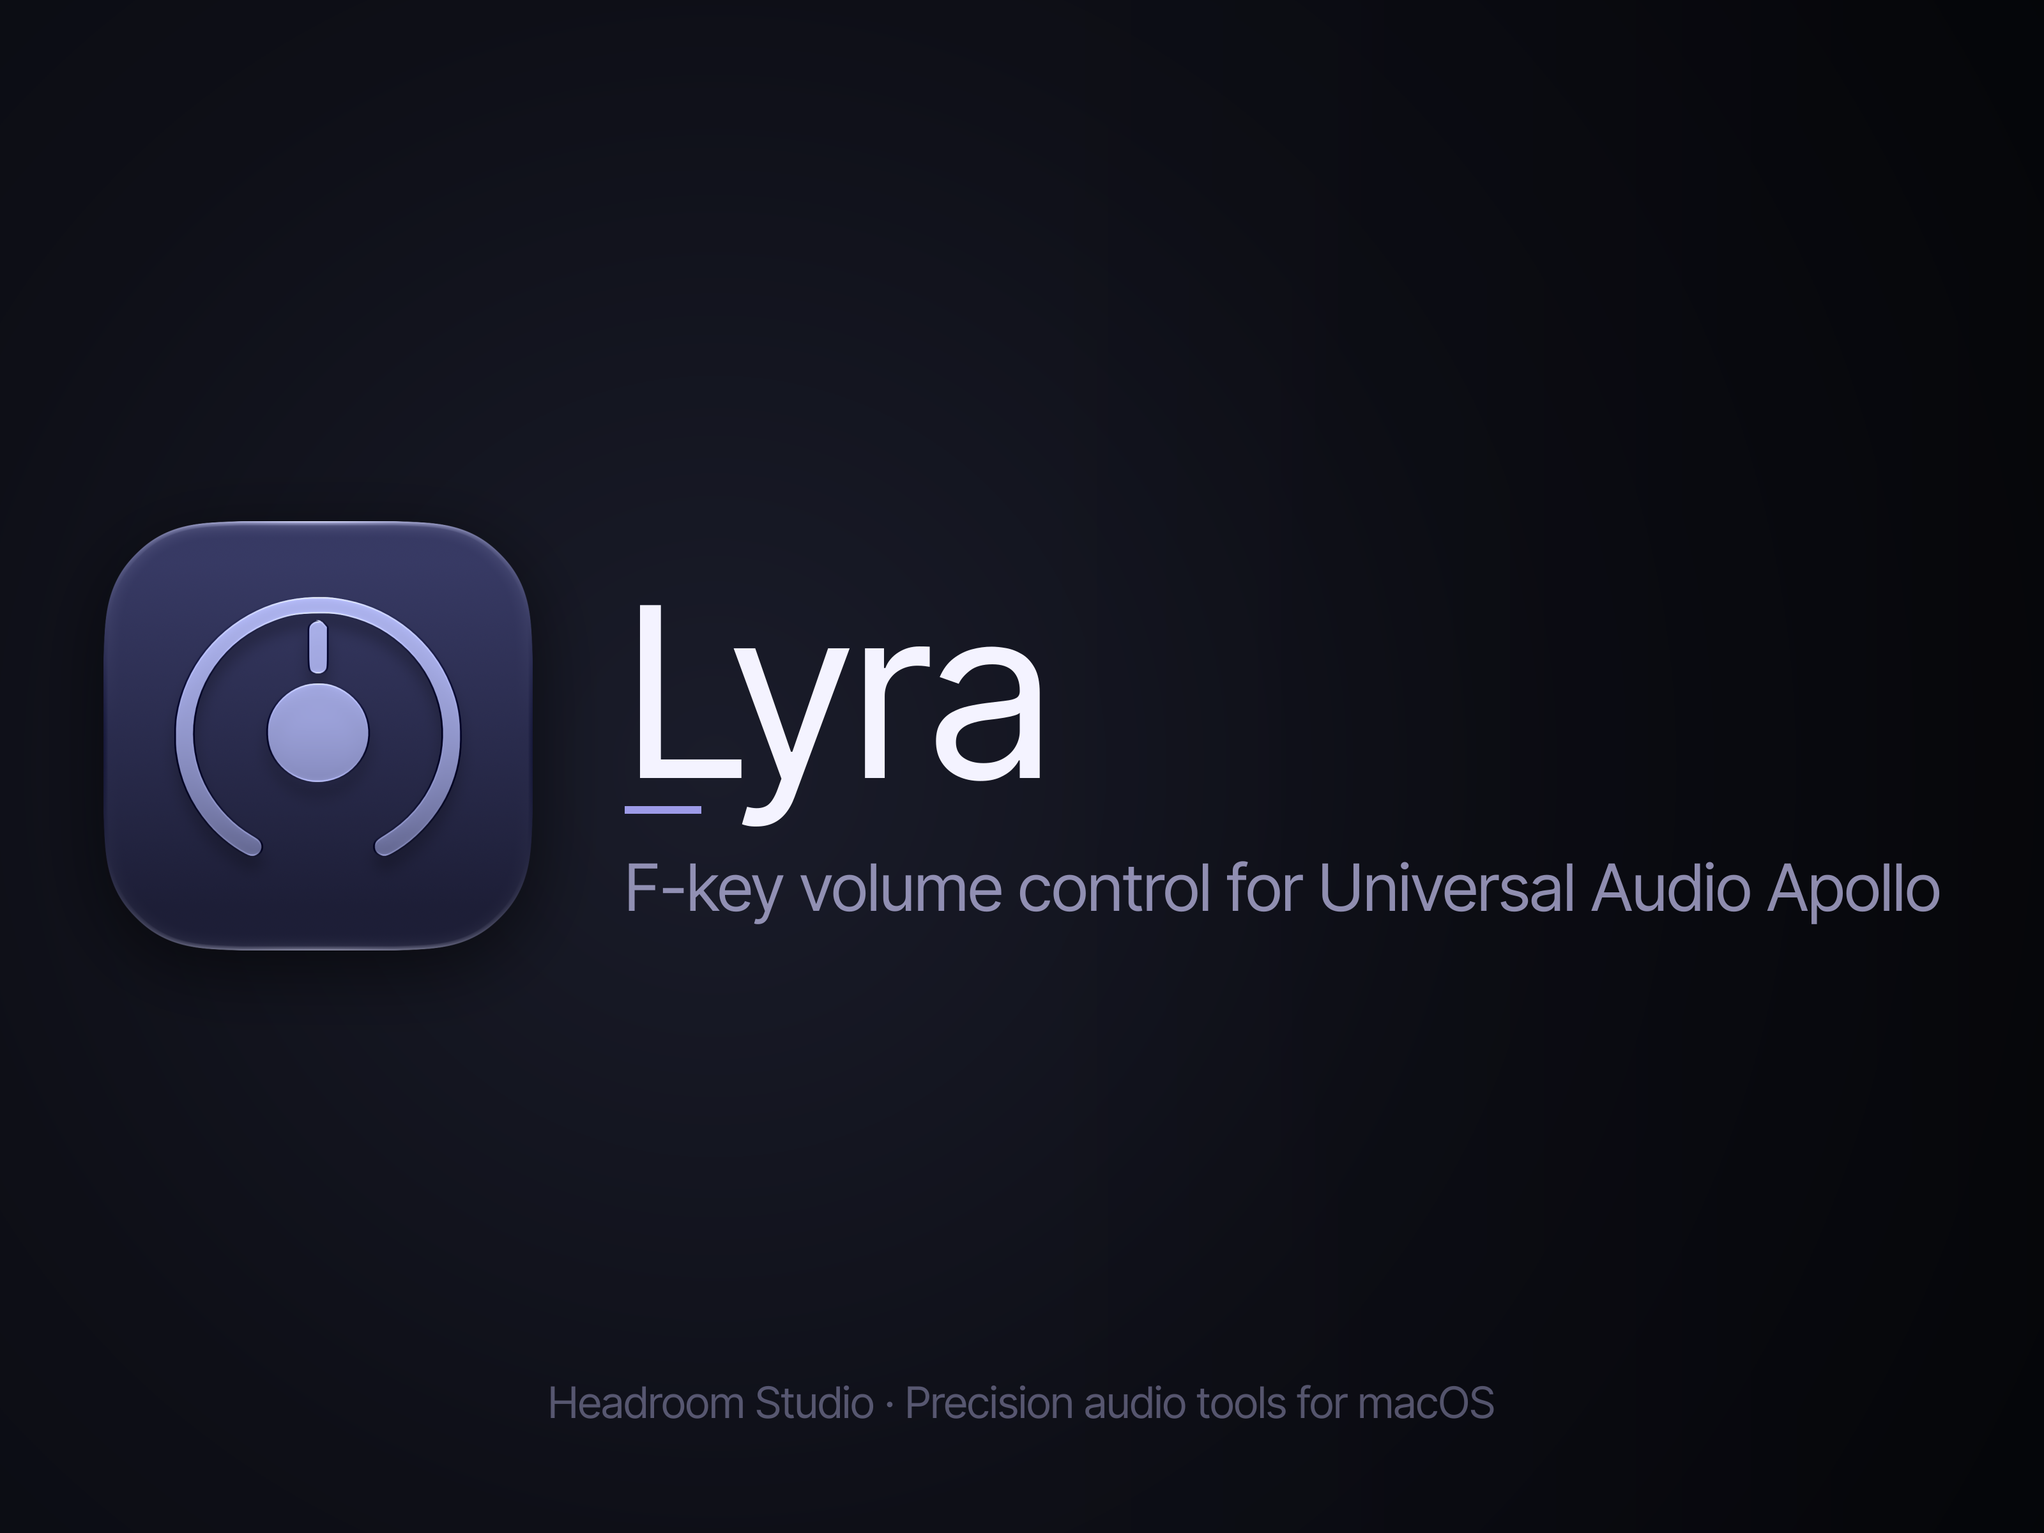
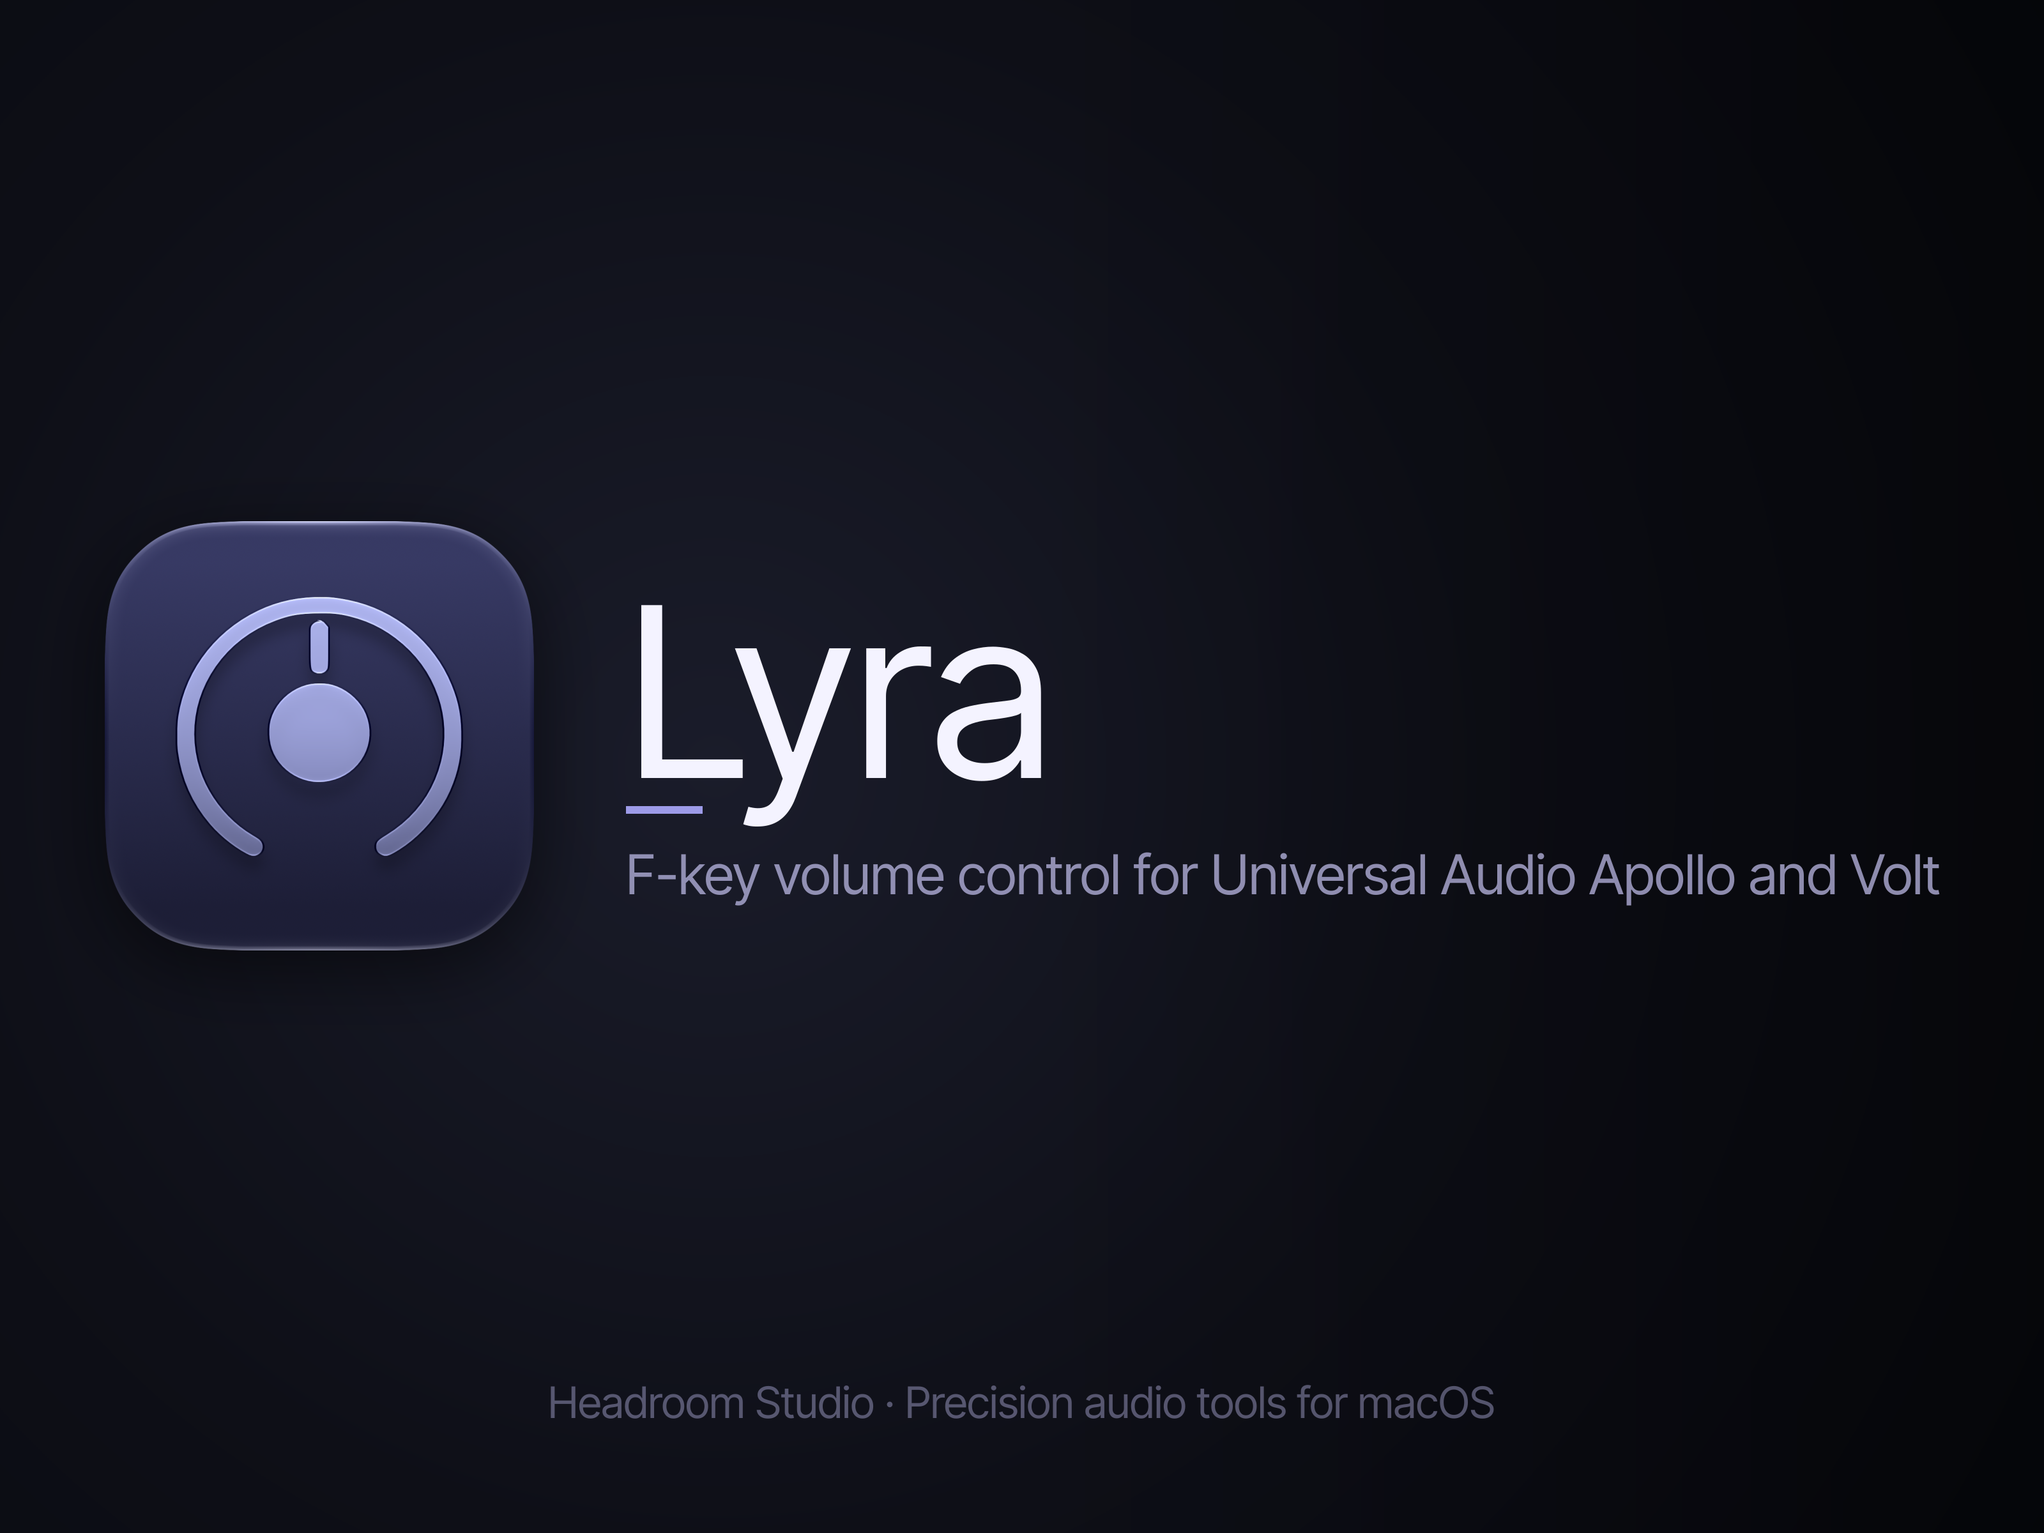
lyra 2.0: re-rendered hero / og / thumbnail; Volt Gen 2 wording; Audita 1.6.1
Hero: eyebrow "Monitor volume", headline "Right to your speakers." on its
own line, lede names Apollo and Volt with "of a Universal Audio ...";
rendered with heroes/render.sh's Chrome command, WebP via tools/webp.sh.
og.png and ls-thumbnail.png: subtitle "for Universal Audio Apollo and
Volt" (generate-app-banners.mjs lyra). FAQ, homepage and release notes:
second-generation Volts (Volt Gen 2 and the Volt Max models), tested on
the Volt 4 Max, Volt 876 untested, other first-generation Volts not
supported; two FAQ answers use the new auto-start / auto-quit names.
Audita release paired with Lyra 2.0 is 1.6.1.

Claude-Session: https://claude.ai/code/session_01LxhmfXkEYbmFLD3JwmqshQ

Changed region(s): [[0.3125, 0.5625, 0.9688, 0.5938]]

diff --git a/lyra/faq.html b/lyra/faq.html
@@ -437,15 +437,15 @@
 
             <div class="faq-item">
                 <p class="faq-q">Does Lyra start UA Mixer Engine automatically?</p>
-                <p class="faq-a">Only if you opt in. As of v1.6, Lyra's <strong>Settings window</strong> (open with <code style="font-family: ui-monospace, SFMono-Regular, Menlo, monospace;">Cmd+,</code>) has an <em>"Auto-start UA Mixer Engine when Apollo is detected"</em> toggle. It's <strong>off by default</strong>. With it on, Lyra opens the headless UA Mixer Engine the moment Apollo wakes up, using the same launch path as the manual <em>"Start UA Mixer Engine"</em> menu button (standalone Mixer Engine app first, UA Console fallback for older driver installs).</p>
-                <p class="faq-a">A paired <em>"Show a notification when this happens"</em> sub-toggle (on by default) posts a banner each time Lyra starts the Engine. Turn it off once you stop reading the banners.</p>
+                <p class="faq-a">Only if you opt in. As of v1.6, Lyra's <strong>Settings window</strong> (open with <code style="font-family: ui-monospace, SFMono-Regular, Menlo, monospace;">Cmd+,</code>) has an <em>"Auto-start UA background apps when an interface connects"</em> toggle. It's <strong>off by default</strong>. With it on, Lyra opens UA Mixer Engine and UA Mixer Helper when an Apollo or Volt comes online, using the same launch path as the manual <em>"Start UA Mixer Engine"</em> menu button.</p>
+                <p class="faq-a">A paired <em>"Show a notification when this happens"</em> sub-toggle (on by default) posts a banner each time Lyra starts one of them. Turn it off once you stop reading the banners.</p>
             </div>
 
             <div class="faq-item">
                 <p class="faq-q">Will Lyra close my UA Console when I unplug for a minute?</p>
-                <p class="faq-a">Not unless you turn it on. The setting is <em>"Auto-quit UA apps when Apollo disconnects"</em> in Lyra's <strong>Settings window</strong> (<code style="font-family: ui-monospace, SFMono-Regular, Menlo, monospace;">Cmd+,</code>), <strong>off by default</strong>. With it on, once Apollo has been gone for about seven seconds Lyra quits <em>UA Mixer Helper</em>, <em>UA Mixer Engine</em>, <em>UAD Console</em>, and <em>UAD Meter &amp; Control Panel</em> so they stop drawing power. If Apollo returns inside that window - brief sleep/wake, Thunderbolt renegotiation, switching ports - nothing gets killed.</p>
+                <p class="faq-a">Not unless you turn it on. The setting is <em>"Auto-quit UA apps when the last interface disconnects"</em> in Lyra's <strong>Settings window</strong> (<code style="font-family: ui-monospace, SFMono-Regular, Menlo, monospace;">Cmd+,</code>), <strong>off by default</strong>. With it on, about seven seconds after the last Apollo or Volt disconnects Lyra quits <em>UA Mixer Helper</em>, <em>UA Mixer Engine</em>, <em>UAD Console</em>, and <em>UAD Meter &amp; Control Panel</em> so they stop drawing power. If an interface reconnects in that time (a short sleep, switching ports), nothing is quit.</p>
                 <p class="faq-a">This mirrors the <a href="https://uadforum.com/community/index.php?threads/uad-mixer-engine-energy-draw.79450/#post-614588" target="_blank" rel="noopener" style="color: var(--accent); text-decoration: none; border-bottom: 1px solid rgba(124,132,246,0.3);">popular auto-close script</a> from uadforum.com, just without the launchd job to maintain. A paired notification sub-toggle (on by default) tells you which apps got closed; the banner only appears if at least one of them was actually running.</p>
-                <p class="faq-a">The default behaviour is unchanged from v1.5: do nothing on disconnect, reconnect when Apollo returns.</p>
+                <p class="faq-a">By default Lyra does nothing on disconnect and reconnects when the interface returns.</p>
             </div>
 
         </div>
@@ -618,12 +618,12 @@
 
             <div class="faq-item">
                 <p class="faq-q">Which interfaces are supported?</p>
-                <p class="faq-a">Universal Audio Apollo interfaces (tested on the Apollo Twin X) and Volt interfaces (tested on the Volt 4 Max). ALT speakers work where the interface has them and they are switched on in UAD Console. Other models are untested; if yours doesn't work, email <a href="mailto:hello@headroomstudio.dev">hello@headroomstudio.dev</a>.</p>
+                <p class="faq-a">Universal Audio Apollo interfaces (tested on the Apollo Twin X) and second-generation Volt interfaces: Volt Gen 2 and the Volt Max models (tested on the Volt 4 Max). The Volt 876 may work but hasn't been tested. Other first-generation Volt interfaces don't work with Lyra. ALT speakers work where the interface has them and they are switched on in UAD Console. Other Apollo and Volt models are untested; if yours doesn't work, email <a href="mailto:hello@headroomstudio.dev">hello@headroomstudio.dev</a>.</p>
             </div>
 
             <div class="faq-item">
                 <p class="faq-q">Does Lyra work with Universal Audio Volt?</p>
-                <p class="faq-a">Yes, from Lyra 2.0. On a Volt, Lyra controls volume, mute, DIM and mono, and on the Volt 4 Max the ALT speakers, from the same keys, menu, widgets, Shortcuts and URL scheme. UAD Console needs to be installed. DIM from Lyra dims the monitors without turning on talkback. A Volt reports no dB value, so Lyra shows its level as a percentage.</p>
+                <p class="faq-a">Yes, from Lyra 2.0, with second-generation Volt interfaces: Volt Gen 2 and the Volt Max models. Tested on the Volt 4 Max. The Volt 876 may work but hasn't been tested; other first-generation Volts don't work with Lyra. On a supported Volt, Lyra controls volume, mute, DIM and mono, and on the Volt 4 Max the ALT speakers, from the same keys, menu, widgets, Shortcuts and URL scheme. UAD Console needs to be installed. DIM from Lyra dims the monitors without turning on talkback. A Volt reports no dB value, so Lyra shows its level as a percentage.</p>
             </div>
 
             <div class="faq-item">

diff --git a/lyra/releases.html b/lyra/releases.html
@@ -87,7 +87,7 @@
     <div class="release-header"><span class="version">Version 2.0</span><span class="date">RELEASE-CUT-DATE</span><span class="badge-new">Latest</span></div>
     <p>Free update for every Lyra license.</p>
     <ul class="changes">
-      <li><span class="tag tag-new">New</span><span><strong>Volt interfaces</strong> - Lyra controls the monitor section of Universal Audio Volt interfaces: volume, mute, DIM, mono and, on the Volt 4 Max, ALT speakers. Tested on the Volt 4 Max. UAD Console needs to be installed; its window doesn't need to be open. DIM from Lyra dims the monitors without turning on talkback. A Volt reports no dB value, so <code>lyra://volume/get</code> and <code>lyra://state</code> leave out <code>db</code> for it.</span></li>
+      <li><span class="tag tag-new">New</span><span><strong>Volt interfaces</strong> - Lyra controls the monitor section of second-generation Universal Audio Volt interfaces (Volt Gen 2 and the Volt Max models): volume, mute, DIM, mono and, on the Volt 4 Max, ALT speakers. Tested on the Volt 4 Max; the Volt 876 may work but hasn't been tested. UAD Console needs to be installed; its window doesn't need to be open. DIM from Lyra dims the monitors without turning on talkback. A Volt reports no dB value, so <code>lyra://volume/get</code> and <code>lyra://state</code> leave out <code>db</code> for it.</span></li>
       <li><span class="tag tag-new">New</span><span><strong>One interface at a time</strong> - with an Apollo and a Volt connected, Lyra controls the Apollo unless you pick the other one in the new Interface menu or in Settings. Lyra remembers the pick. When the controlled interface is disconnected, Lyra moves to the remaining one and moves back when it returns, with a notification each time. Reference Levels are kept per interface.</span></li>
       <li><span class="tag tag-impr">Impr</span><span><strong>UA background apps</strong> - auto-start opens UA Mixer Engine and UA Mixer Helper when any supported interface connects; auto-quit waits until the last one is disconnected. The Settings wording says so.</span></li>
       <li><span class="tag tag-new">New</span><span><strong>ALT speakers</strong> - on Apollos with ALT monitor outputs, Lyra switches between Main, ALT 1 and ALT 2: from the Speakers section in the menu, with <kbd>⌃⌥1</kbd> / <kbd>⌃⌥2</kbd> / <kbd>⌃⌥3</kbd>, or with <kbd>⌃⌥§</kbd> to step to the next pair. The volume HUD and the menu show the active pair beside the interface name, and the menu bar icon carries a small 1 or 2 while an ALT pair is playing. If ALT is off in UA Console, the menu says where to turn it on.</span></li>

diff --git a/gen_app_banners/heroes/lyra-hero.html b/gen_app_banners/heroes/lyra-hero.html
@@ -46,7 +46,7 @@ canvas{position:absolute;inset:0;width:960px;height:540px}
 .plus{font-size:22px;color:var(--text-4);font-weight:300}
 
 h2{margin-top:30px;font-family:var(--display);font-size:40px;line-height:1.04;text-wrap:balance;font-weight:700;letter-spacing:-.035em}
-h2 span{color:var(--text-2);font-weight:600}
+h2 span{display:block;color:var(--text-2);font-weight:600}
 .lede{margin-top:12px;font-size:14px;line-height:1.5;color:var(--text-2);max-width:330px}
 
 .row{margin-top:24px;display:grid;grid-template-columns:repeat(3,auto);justify-content:start;column-gap:26px;row-gap:9px}
@@ -75,14 +75,14 @@ h2 span{color:var(--text-2);font-weight:600}
 <canvas id="c" width="1920" height="1080"></canvas>
 
 <div class="copy">
-  <p class="eyebrow">Apollo monitor volume</p>
+  <p class="eyebrow">Monitor volume</p>
   <div class="chord">
     <div class="cap"><svg viewBox="0 0 30 24" fill="none" stroke="currentColor" stroke-width="1.8" stroke-linejoin="round" stroke-linecap="round"><path d="M3 9h5l6-5v16l-6-5H3z" fill="currentColor" stroke="none"/><path d="M19 8l7 8M26 8l-7 8"/></svg><span class="t">F10</span></div>
     <div class="cap"><svg viewBox="0 0 30 24" fill="none" stroke="currentColor" stroke-width="1.8" stroke-linecap="round"><path d="M5 9h5l6-5v16l-6-5H5z" fill="currentColor" stroke="none"/><path d="M20 8.5a5 5 0 0 1 0 7"/></svg><span class="t">F11</span></div>
     <div class="cap lit"><svg viewBox="0 0 30 24" fill="none" stroke="currentColor" stroke-width="1.8" stroke-linecap="round"><path d="M1 9h5l6-5v16l-6-5H1z" fill="currentColor" stroke="none"/><path d="M16 8.5a5 5 0 0 1 0 7M19.5 5.5a9.5 9.5 0 0 1 0 13M23 2.5a14 14 0 0 1 0 19"/></svg><span class="t">F12</span></div>
   </div>
-  <h2>F10, F11, F12. <span>Straight to the Apollo.</span></h2>
-  <p class="lede">Mute, volume down and volume up drive the Apollo's monitor level. Add Control to recall the Quiet, Mix and Loud reference levels.</p>
+  <h2>F10, F11, F12. <span>Right to your speakers.</span></h2>
+  <p class="lede">Mute, volume down and volume up drive the monitor level of a Universal Audio Apollo or Volt. Add Control to recall the Quiet, Mix and Loud reference levels.</p>
   <div class="row">
     <div><kbd>⇧F10</kbd>DIM</div><div><kbd>⌥F10</kbd>Mono</div><div><kbd>⇧F11 F12</kbd>Half steps</div>
   </div>

diff --git a/audita/releases.html b/audita/releases.html
@@ -68,16 +68,13 @@
   </header>
 
   <!-- RELEASE-CUT: Audita draft from Audita RELEASE-NOTES.md "## Unreleased" (feat/audita-volt-support), paired with
-       Lyra 2.0 and never shipped before it. Audita 1.6 shipped on its own on 2026-10-17, so this
-       release needs a new number (1.6.1 or 1.7, Krzysiek's call): replace RELEASE-CUT-VERSION in the id and heading
-       and in appcast.xml, RELEASE-CUT-DATE with the month, move the Latest badge off 1.6, and re-check against the
-       locked notes. -->
-  <section class="release" id="vRELEASE-CUT-VERSION">
-    <div class="release-header"><span class="version">Version RELEASE-CUT-VERSION</span><span class="date">RELEASE-CUT-DATE</span><span class="badge-new">Latest</span></div>
+       Lyra 2.0 and never shipped before it. Audita 1.6 shipped on its own on 2026-10-17; this release is 1.6.1
+       (Krzysiek, 2026-10-20). At the cut: RELEASE-CUT-DATE with the month, move the Latest badge off 1.6, and re-check
+       against the locked notes. -->
+  <section class="release" id="v1.6.1">
+    <div class="release-header"><span class="version">Version 1.6.1</span><span class="date">RELEASE-CUT-DATE</span><span class="badge-new">Latest</span></div>
     <ul class="changes">
-      <!-- TODO(volt): this line names the Volt because the Audita release exists for it. Keep it only if Lyra 2.0 ships
-           with Volt support verified on the hardware; reword or drop it if Volt slips out of 2.0. -->
-      <li><span class="tag tag-impr">Impr</span><span><strong>Lyra on Universal Audio Volt</strong> - Send to Lyra and the self-check's Lyra recall work on Universal Audio Volt interfaces, with <a href="../lyra/">Lyra</a> 2.0.</span></li>
+      <li><span class="tag tag-impr">Impr</span><span><strong>Lyra on Universal Audio Volt</strong> - Send to Lyra and the self-check's Lyra recall work on second-generation Universal Audio Volt interfaces, with <a href="../lyra/">Lyra</a> 2.0.</span></li>
     </ul>
   </section>
 

diff --git a/lyra/index.html b/lyra/index.html
@@ -123,7 +123,7 @@
       <p class="label">New in 2.0</p>
       <div>
         <p class="prose-lead">Free update for every Lyra license.</p>
-        <p class="prose-lead"><strong>Volt interfaces.</strong> Lyra controls the monitor section of Universal Audio Volt interfaces: volume, mute, DIM, mono and, on the Volt 4 Max, ALT speakers, from the same keys, menu, widgets, Shortcuts and URL scheme as on an Apollo. Tested on the Volt 4 Max. UAD Console needs to be installed; its window doesn't need to be open.</p>
+        <p class="prose-lead"><strong>Volt interfaces.</strong> Lyra controls the monitor section of second-generation Universal Audio Volt interfaces (Volt Gen 2 and the Volt Max models): volume, mute, DIM, mono and, on the Volt 4 Max, ALT speakers, from the same keys, menu, widgets, Shortcuts and URL scheme as on an Apollo. Tested on the Volt 4 Max; the Volt 876 may work but hasn't been tested. UAD Console needs to be installed; its window doesn't need to be open. Details in the <a href="faq.html">FAQ</a>.</p>
         <p class="prose-lead"><strong>One interface at a time.</strong> With an Apollo and a Volt connected, Lyra controls the Apollo unless you pick the Volt in the menu or in Settings, and remembers the pick. Reference Levels are kept per interface.</p>
         <!-- SCREENSHOT: lyra-menu-interfaces (Interface submenu with Apollo Twin X and Volt 4 Max) -->
         <p class="prose-lead"><strong>ALT speakers.</strong> On Apollos with ALT monitor outputs, Lyra switches the monitor between Main, ALT 1 and ALT 2: from the Speakers section of the menu, with <kbd>⌃⌥1</kbd> / <kbd>⌃⌥2</kbd> / <kbd>⌃⌥3</kbd>, or one step at a time with <kbd>⌃⌥§</kbd>. The HUD and the menu name the pair playing, e.g. <em>Apollo Twin X · ALT 1</em>, and the menu bar icon carries a small 1 or 2.</p>
